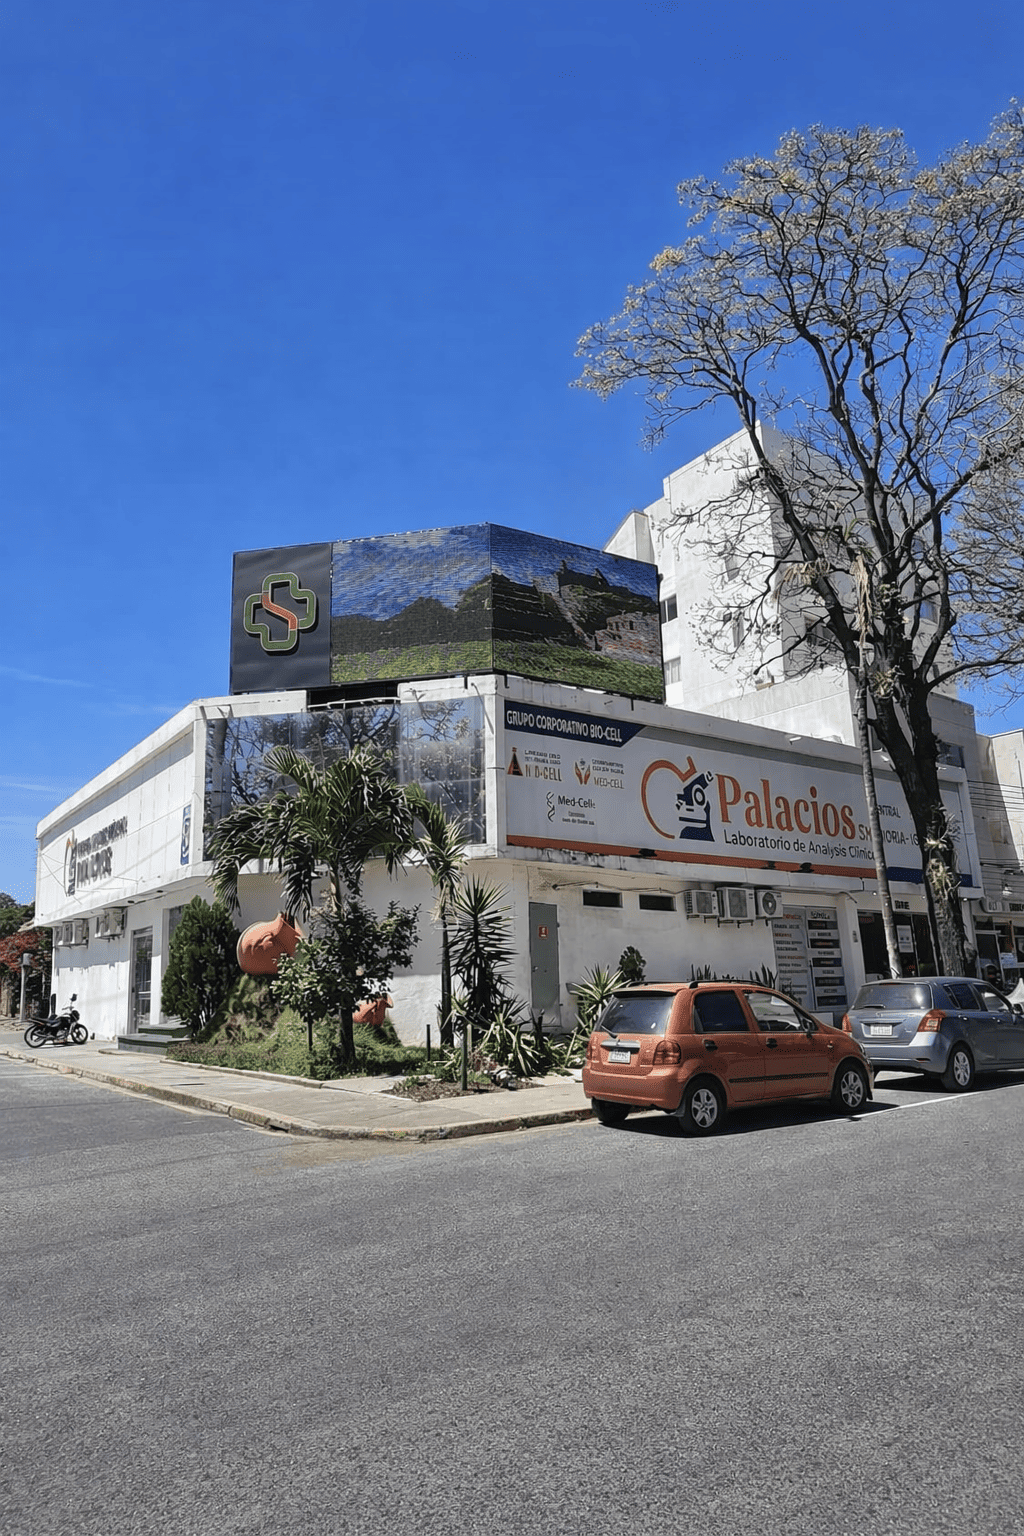
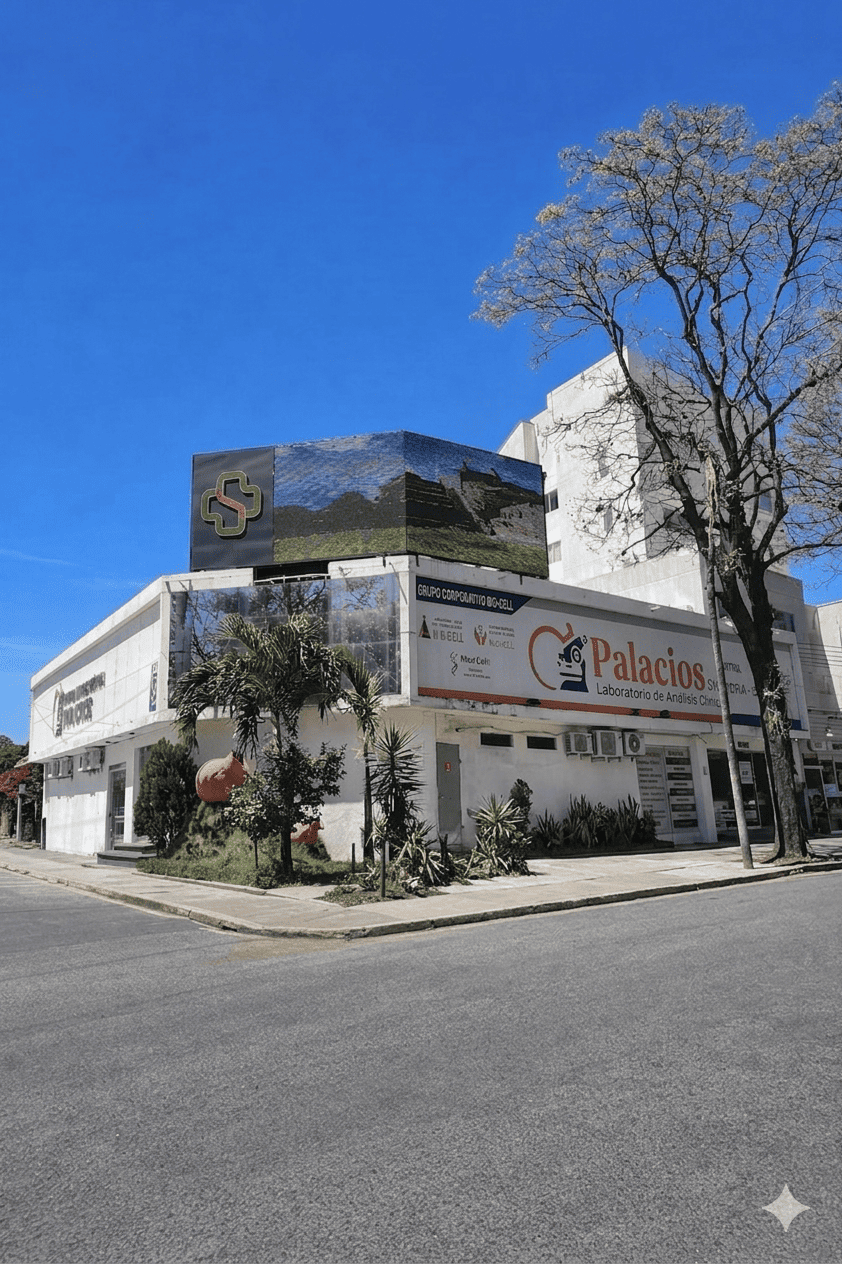
cambios necesarios

Changed region(s): [[0.0, 0.0617, 1.0, 0.7405], [0.0, 0.8022, 1.0, 1.0], [0.4632, 0.8022, 0.4941, 0.8331]]

diff --git a/database/seeders/MenuSeeder.php b/database/seeders/MenuSeeder.php
@@ -188,8 +188,7 @@ class MenuSeeder extends Seeder
             ['name' => 'Especialidades', 'route' => 'admin.especialidades.index', 'roles' => 'admin,administrador', 'order' => 1],
             ['name' => 'Doctores', 'route' => 'admin.doctors.index', 'roles' => 'admin,administrador', 'order' => 2],
             ['name' => 'Almacén Medicamentos', 'route' => 'admin.almacen-medicamentos.index', 'roles' => 'admin,administrador', 'order' => 3],
-            ['name' => 'Consulta Externa', 'route' => 'admin.consulta-externa-gestion', 'roles' => 'admin,administrador', 'order' => 4],
-            ['name' => 'Procedimientos', 'route' => 'admin.procedimientos.index', 'roles' => 'admin,administrador', 'order' => 5],
+             ['name' => 'Procedimientos', 'route' => 'admin.procedimientos.index', 'roles' => 'admin,administrador', 'order' => 5],
         ]);
 
         // 2. Emergencias (Nivel 2)
@@ -280,18 +279,16 @@ class MenuSeeder extends Seeder
 
         $admin->children()->createMany([
             // Configuración Financiera
-            ['name' => 'Tarifarios', 'route' => 'admin.tarifarios', 'roles' => 'admin,administrador', 'order' => 1],
             ['name' => 'Seguros', 'route' => 'admin.seguros', 'roles' => 'admin,administrador', 'order' => 2],
-            ['name' => 'Precios de Ingresos', 'route' => 'admin.ingreso-precios.index', 'roles' => 'admin,administrador', 'order' => 3],
+            ['name' => 'Precio al Ingreso', 'route' => 'admin.ingreso-precios.index', 'roles' => 'admin,administrador', 'order' => 3],
 
             // Inventario y Caja
             ['name' => 'Almacén Inventario', 'route' => 'admin.almacen-inventario.index', 'roles' => 'admin,administrador', 'order' => 10],
             ['name' => 'Control de Caja', 'route' => 'caja.gestion.index', 'roles' => 'admin,administrador', 'order' => 11],
             ['name' => 'Cobro de Pacientes', 'route' => 'caja.operativa.index', 'order' => 12],
             ['name' => 'Contabilidad', 'route' => 'caja.contabilidad.index', 'roles' => 'admin,administrador', 'order' => 13],
-            // Gestión Financiera
-            ['name' => 'Cuentas por Cobrar', 'route' => 'admin.cuentas', 'roles' => 'admin,administrador', 'order' => 20],
-        ]);
+           
+            ]);
 
         // 8. Farmacia (Operativo - rol farmacia/admin/administrador)
         $farmacia = Menu::create([

diff --git a/resources/views/internacion-staff/habitaciones/edit.blade.php b/resources/views/internacion-staff/habitaciones/edit.blade.php
@@ -12,14 +12,6 @@
                 <p class="text-gray-600 mt-1">Modificar información de la habitación</p>
             </div>
             <div class="flex gap-2">
-                <a href="{{ route('internacion-staff.habitaciones.show', $habitacion) }}" 
-                   class="bg-indigo-600 hover:bg-indigo-700 text-white px-4 py-2 rounded-lg flex items-center gap-2 transition-colors shadow-sm">
-                    <svg class="w-5 h-5" fill="none" stroke="currentColor" viewBox="0 0 24 24">
-                        <path stroke-linecap="round" stroke-linejoin="round" stroke-width="2" d="M15 12a3 3 0 11-6 0 3 3 0 016 0z"/>
-                        <path stroke-linecap="round" stroke-linejoin="round" stroke-width="2" d="M2.458 12C3.732 7.943 7.523 5 12 5c4.478 0 8.268 2.943 9.542 7-1.274 4.057-5.064 7-9.542 7-4.477 0-8.268-2.943-9.542-7z"/>
-                    </svg>
-                    Ver Detalle
-                </a>
                 <a href="{{ route('internacion-staff.habitaciones.index') }}" 
                    class="bg-gray-600 hover:bg-gray-700 text-white px-4 py-2 rounded-lg flex items-center gap-2 transition-colors shadow-sm">
                     <svg class="w-5 h-5" fill="none" stroke="currentColor" viewBox="0 0 24 24">

diff --git a/resources/views/admin/procedimientos/create.blade.php b/resources/views/admin/procedimientos/create.blade.php
@@ -21,7 +21,7 @@
                     <label class="block text-sm font-medium text-gray-700 mb-1">Área</label>
                     <select name="area" required class="w-full border rounded-lg px-3 py-2 text-sm @error('area') border-red-500 @enderror">
                         <option value="">Seleccionar área</option>
-                        @foreach(['emergencia','uti','internacion','cirugia','hospitalizacion','neonato'] as $area)
+                        @foreach(['emergencia','uti','internacion','cirugia','neonato'] as $area)
                             <option value="{{ $area }}" {{ old('area') === $area ? 'selected' : '' }}>{{ ucfirst($area) }}</option>
                         @endforeach
                     </select>

diff --git a/app/Http/Controllers/HabitacionGestionController.php b/app/Http/Controllers/HabitacionGestionController.php
@@ -127,7 +127,7 @@ class HabitacionGestionController extends Controller
 
         $this->actualizarPreciosCamas($habitacion, $validated['camas'] ?? []);
 
-        return redirect()->route('internacion-staff.habitaciones.show', $habitacion)
+        return redirect()->route('internacion-staff.habitaciones.index')
             ->with('success', 'Habitación actualizada exitosamente.');
     }
 
